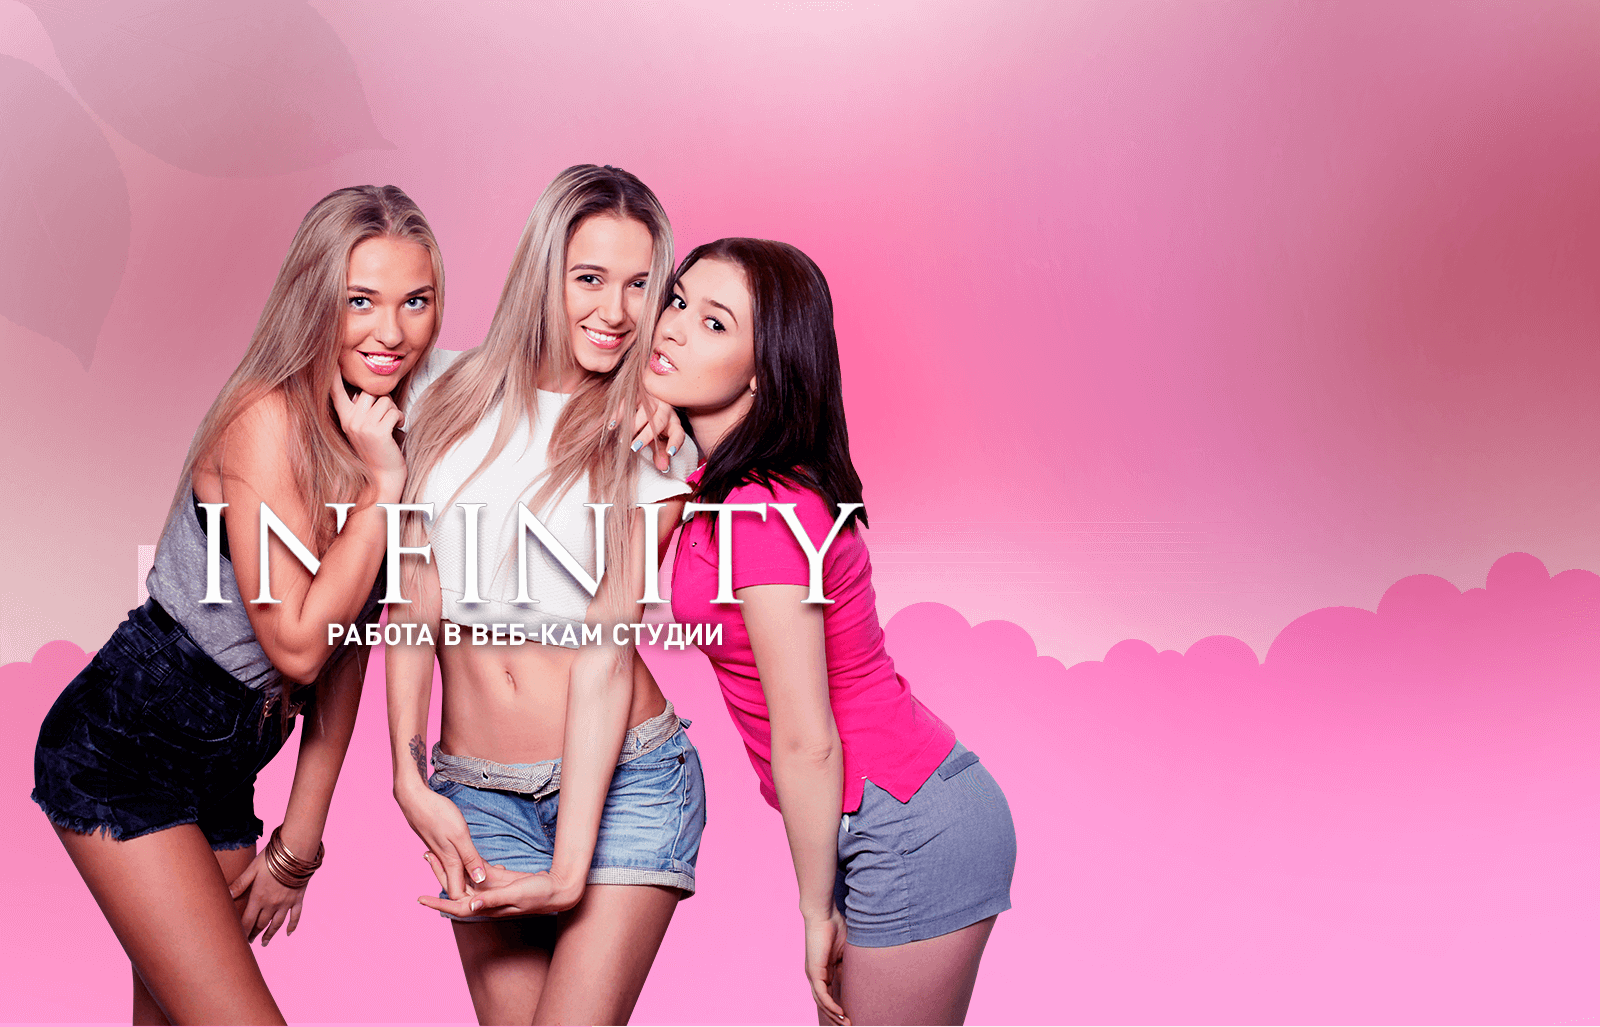
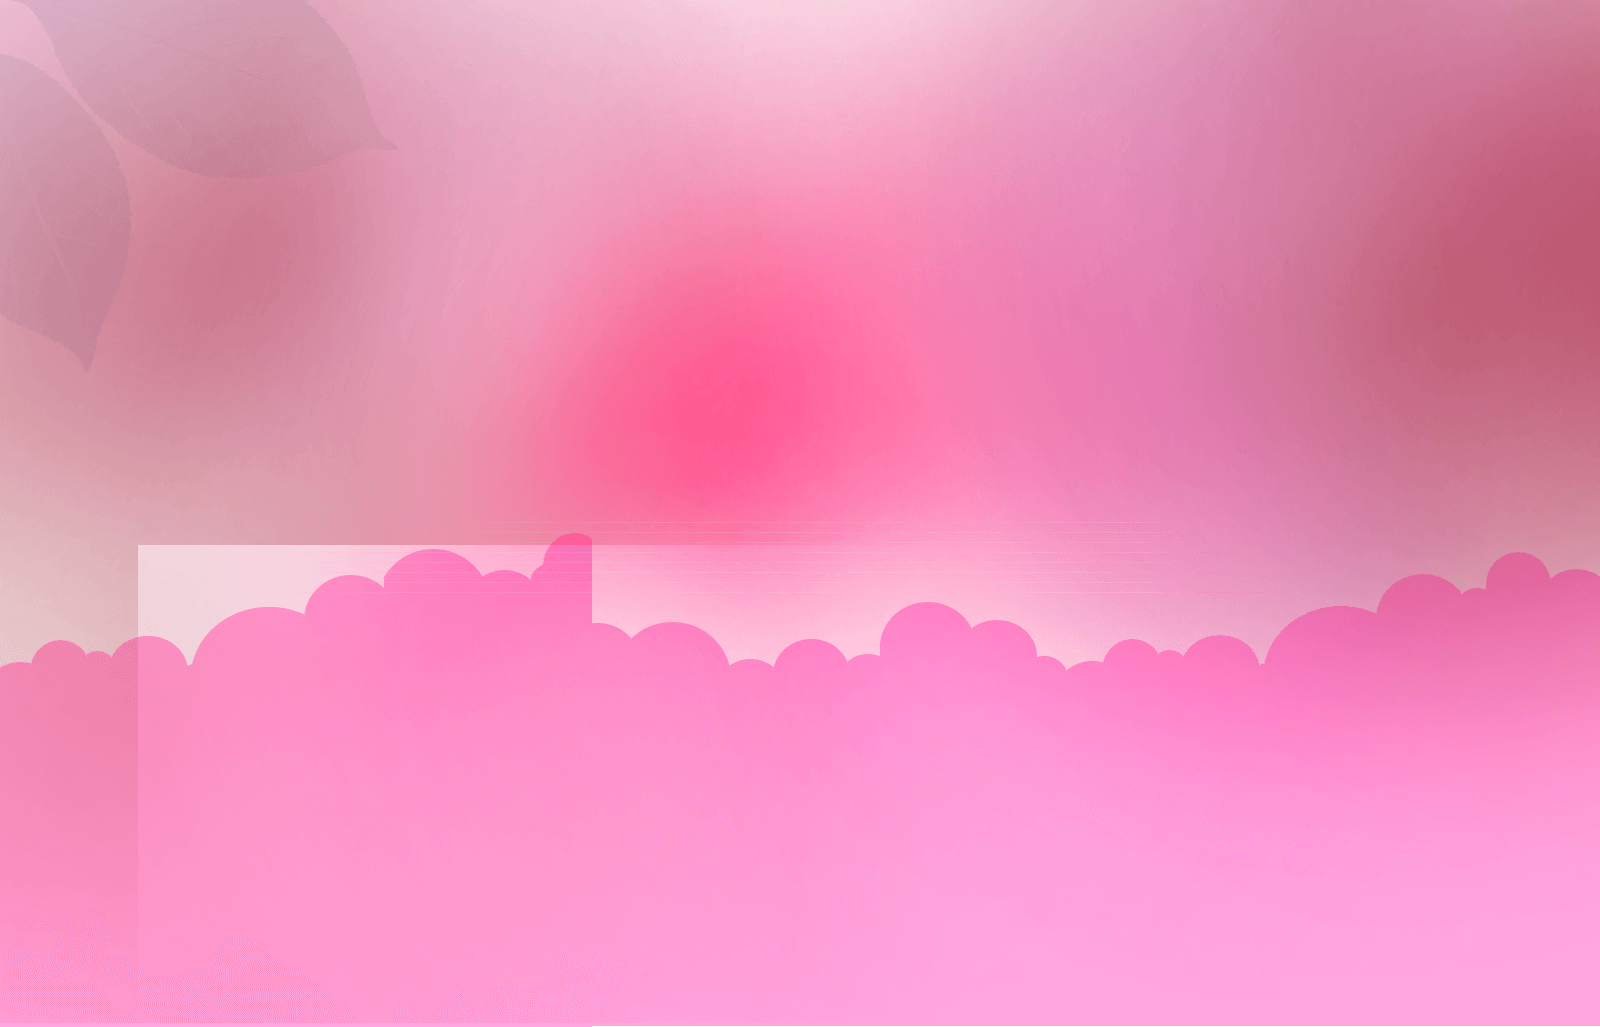
адаптив

diff --git a/infinity/css/media.css b/infinity/css/media.css
@@ -1,0 +1,211 @@
+/*==========  Desktop First Method  ==========*/
+
+/* Large Devices, Wide Screens */
+@media only screen and (max-width : 1280px) {
+	.info_block {
+		margin-left: 0;
+		width: 33.333333%;
+	}
+}
+@media only screen and (max-width : 1200px) {
+	#header {
+		background-position: 50% 0 !important;
+		background-attachment: inherit;
+	}
+	.block_vacancies1 {
+		width: 48.89999%;
+	}
+	.block_vacancies2 {
+		width: 48.89999%;
+	}
+	.block_vacancies3 {
+		width: 100%;
+	}
+	.block_vacancies_indent {
+		margin-left: 0;
+	}
+}
+
+@media only screen and (max-width : 1190px) {
+	.question1 {
+		margin-left: 0;
+	}
+}
+
+@media only screen and (max-width : 1024px) {
+	.info_text > h3 {
+		font-size: 24px;
+	}
+	.info_text > p {
+		font-size: 16px;
+	}
+}
+
+/* Medium Devices, Desktops */
+@media only screen and (max-width : 992px) {
+	.question2 {
+		margin-left: 0;
+	}
+}
+@media only screen and (max-width : 900px) {
+	.girls {
+		display: none;
+	}
+	.infoblock {
+		float: none;
+		margin: 0 auto;
+	}
+}
+@media only screen and (max-width : 875px) {
+	.info_block {
+		width: 100%;
+	}
+	.header {
+		font-size: 50px;
+	}
+	.block_vacancies1 {
+		width: 100%;
+	}
+	.block_vacancies2 {
+		width: 100%;
+	}
+}
+@media only screen and (max-width : 830px) {
+	.help_block {
+		margin-left: 0;
+	}
+}
+/* Small Devices, Tablets */
+@media only screen and (max-width : 768px) {
+	.bg_footer {
+		height: auto;
+	}
+}
+@media only screen and (max-width : 700px) {
+	.infoblock > h1 {
+		font-size: 50px;
+	}
+	.infoblock > h1 > span {
+		font-size: 59px;
+	}
+	.infoblock > h1 > span > span {
+		font-size: 72px;
+	}
+	.tel > a {
+		font-size: 72px;
+	}
+}
+@media only screen and (max-width : 600px) {
+	.subtitle{
+		font-size: 12px;
+		line-height: 16px;
+	}
+	.header2 {
+		font-size: 45px;
+	}
+	.tell {
+		font-size: 45px;
+	}
+	.info_kontakt {
+		font-size: 14px;
+	}
+}
+@media only screen and (max-width : 576px) {
+	.infoblock > h1 {
+		font-size: 30px;
+	}
+	.infoblock > h1 > span {
+		font-size: 39px;
+	}
+	.infoblock > h1 > span > span {
+		font-size: 52px;
+	}
+	.tel > a {
+		font-size: 52px;
+	}
+	.popup-with-zoom-anim {
+		font-size: 20px;
+	}
+}
+@media only screen and (max-width : 565px) {
+	.feedback > form {
+		padding: 26px 0 0 0;
+		-webkit-background-size: contain;
+		background-size: contain;
+		    width: 320px;
+    height: 292px;
+	}
+	.feedback > form > span {
+		font-size: 28px;
+		line-height: 29px;
+	}
+	.feedback > form > input {
+		width: 150px;
+		height: 44px;
+	}
+	.feedback > form > button {
+		width: 188px;
+		height: 43px;
+	}
+} 
+
+/* Extra Small Devices, Phones */
+@media only screen and (max-width : 480px) {
+	.block_vacancies1 > p {
+		font-size: 15px;
+	}
+	.block_vacancies2 > ul > li, .block_vacancies1 > ul > li {
+		font-size: 15px;
+	}
+	.form_body > input {
+		width: 260px;
+	}
+	.question1, .question2 {
+		width: 100%;
+	}
+	.help_block {
+		font-size: 16px;
+		line-height: 18px;
+		width: 100%;
+	}
+	.help_tel {
+		width: 100%;
+		margin-left: 0;
+	}
+	.help_tel > a {
+		font-size: 40px;
+	}
+}
+
+/* Custom, iPhone Retina */
+@media only screen and (max-width : 320px) {
+
+}
+
+
+/*==========  Mobile First Method  ==========*/
+
+/* Custom, iPhone Retina */
+@media only screen and (min-width : 320px) {
+
+}
+
+/* Extra Small Devices, Phones */
+@media only screen and (min-width : 480px) {
+
+}
+
+/* Small Devices, Tablets */
+@media only screen and (min-width : 768px) {
+
+}
+
+/* Medium Devices, Desktops */
+@media only screen and (min-width : 992px) {
+
+}
+
+/* Large Devices, Wide Screens */
+@media only screen and (min-width : 1200px) {
+
+}

diff --git a/infinity/index.html b/infinity/index.html
@@ -21,6 +21,7 @@
 	<link href="https://fonts.googleapis.com/css?family=Open+Sans&amp;subset=cyrillic" rel="stylesheet">
 
 	<link rel="stylesheet" href="css/main.css">
+	<link rel="stylesheet" href="css/media.css">
 
 </head>
 
@@ -29,7 +30,10 @@
 		<article class="bg_fix">
 			<div class="container">
 				<div class="row">
-					<!-- <span class="infinity_text">Работа в веб-кам студии</span> -->
+					<div class="girls">
+						<img src="img/girls.png" alt="">
+						<span class="infinity_text">Работа в веб-кам студии</span>
+					</div>
 					<div class="infoblock">
 						<h1>
 							СТАНЬ ВЕБ-МОДЕЛЬЮ и получай <br>
@@ -236,7 +240,7 @@
 				<span class="info_kontakt">Ваши контактные данные в безопасности и <br>используются только для связи с Вами</span>
 			</div>
 		</div>
-		<div class="button_top"><a href="#header">&#8249;</a></div>
+<!-- 		<div class="button_top"><a href="#header">&#8249;</a></div> -->
 	</section>
 
 	<footer class="bg_footer" id="footer_anchor">

diff --git a/infinity/css/main.css b/infinity/css/main.css
@@ -38,7 +38,7 @@ body {
 	font-family: sans-serif;
 	font-size: 16px;
 	position: relative;
-	min-width: 1280px;
+	min-width: 320px;
 	line-height: 1.6;
 	font-family: OpenSans, sans-serif;
 }
@@ -98,7 +98,7 @@ body {
 	position: absolute;
 	top: 50%;
 	left: 50%;
-	transform: translate(-116.8%, 127.9%);
+	transform: translate(-50%, 50%);
 }
 .body_bg {
 	position: relative;
@@ -108,8 +108,16 @@ body {
 	background-size: 100%;
 	padding-bottom: 40px;
 }
+.girls {
+	position: absolute;
+	bottom: -8px;
+}
+.girls > img {
+	max-width: 900px;
+}
 .infoblock {
-	width: 635px;
+	position: relative;
+	max-width: 635px;
 	float: right;
 	text-align: center;
 }
@@ -559,7 +567,7 @@ body {
 	text-decoration: none;
 }
 .indent {
-	width: 827px;
+	max-width: 827px;
 	height: 2px;
 	background-color: #000;
 	opacity: 0.3;
@@ -671,12 +679,6 @@ body {
 .footer_logo {
 	float: right;
 	margin: 45px 0;
-}
-@media only screen and (max-width : 1200px) {
-	#header {
-		background-position: 50% 0 !important;
-		background-attachment: inherit;
-	}
 }
 /* css firefox */
 @-moz-document url-prefix(){
